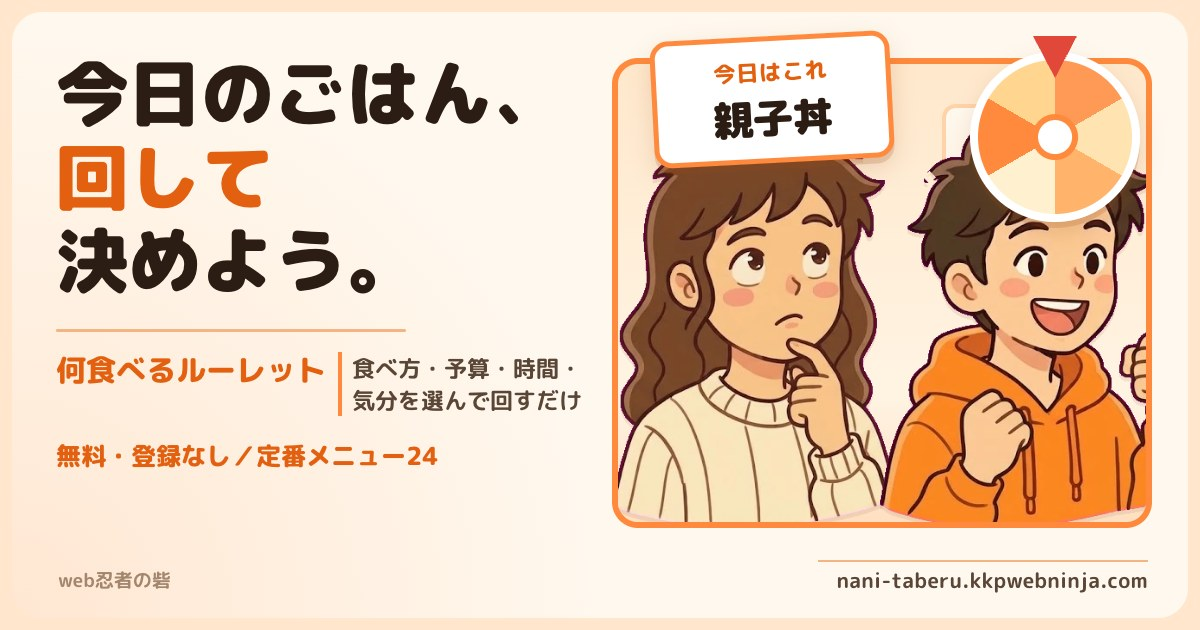
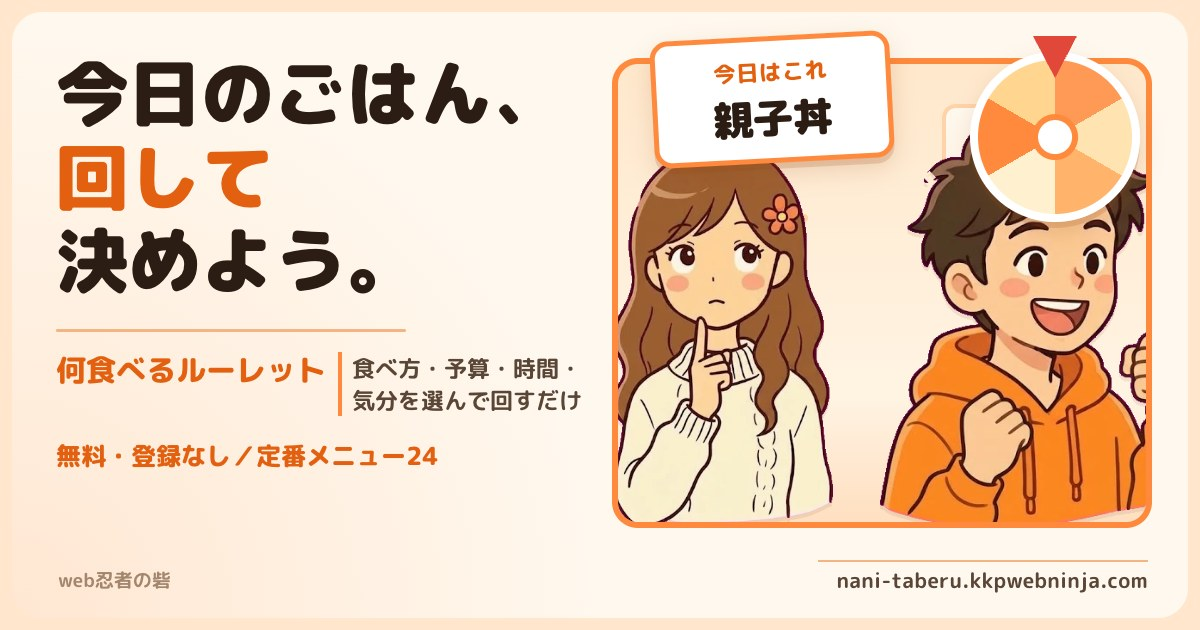
カード画像（OGP）の女の子を、ひと目で女の子と分かる絵に差し替える
男の子と同じ顔に見えていたため、kkp-kit の女の子の素材を作り直して書き出し直した（kkp-kit 978018e）。
og:image・twitter:image の ?d= を 20261023 にして、SNS に新しい画像を読み直させる。

Changed region(s): [[0.4933, 0.2413, 0.74, 0.8444]]

diff --git a/index.html b/index.html
@@ -19,9 +19,9 @@
 <meta property="og:type" content="website">
 <meta property="og:url" content="https://nani-taberu.kkpwebninja.com/">
 <meta property="og:site_name" content="何食べるルーレット">
-<meta property="og:image" content="https://nani-taberu.kkpwebninja.com/ogp.jpg?d=20261022">
+<meta property="og:image" content="https://nani-taberu.kkpwebninja.com/ogp.jpg?d=20261023">
 <meta name="twitter:card" content="summary_large_image">
-<meta name="twitter:image" content="https://nani-taberu.kkpwebninja.com/ogp.jpg?d=20261022">
+<meta name="twitter:image" content="https://nani-taberu.kkpwebninja.com/ogp.jpg?d=20261023">
 
 <script type="application/ld+json">{"@context": "https://schema.org", "@type": "WebApplication", "name": "何食べるルーレット", "url": "https://nani-taberu.kkpwebninja.com/", "description": "今日何食べる？食べ方・予算・時間・気分を選ぶだけで、食べるものをルーレットで決められる無料ツール。登録不要。", "applicationCategory": "LifestyleApplication", "operatingSystem": "Web", "offers": {"@type": "Offer", "price": "0", "priceCurrency": "JPY"}, "author": {"@type": "Organization", "name": "web忍者の砦"}}</script>
 <script type="application/ld+json">{"@context": "https://schema.org", "@type": "FAQPage", "mainEntity": [{"@type": "Question", "name": "ルーレットは無料で使えますか？", "acceptedAnswer": {"@type": "Answer", "text": "はい。会員登録も不要で、何度でも無料で使えます。"}}, {"@type": "Question", "name": "自分で候補を登録できますか？", "acceptedAnswer": {"@type": "Answer", "text": "「自分の候補だけで回す」から1行に1つずつ入力してください。この端末のブラウザ内にだけ保存されます。"}}, {"@type": "Question", "name": "選んだ条件や履歴は送信されますか？", "acceptedAnswer": {"@type": "Answer", "text": "候補と直近の結果は端末内に保存され、サーバーへは送信しません。"}}, {"@type": "Question", "name": "アレルギーにも対応していますか？", "acceptedAnswer": {"@type": "Answer", "text": "一般的な食事選び用です。アレルギーや食事制限がある場合は、原材料を確認して安全を優先してください。"}}]}</script>
